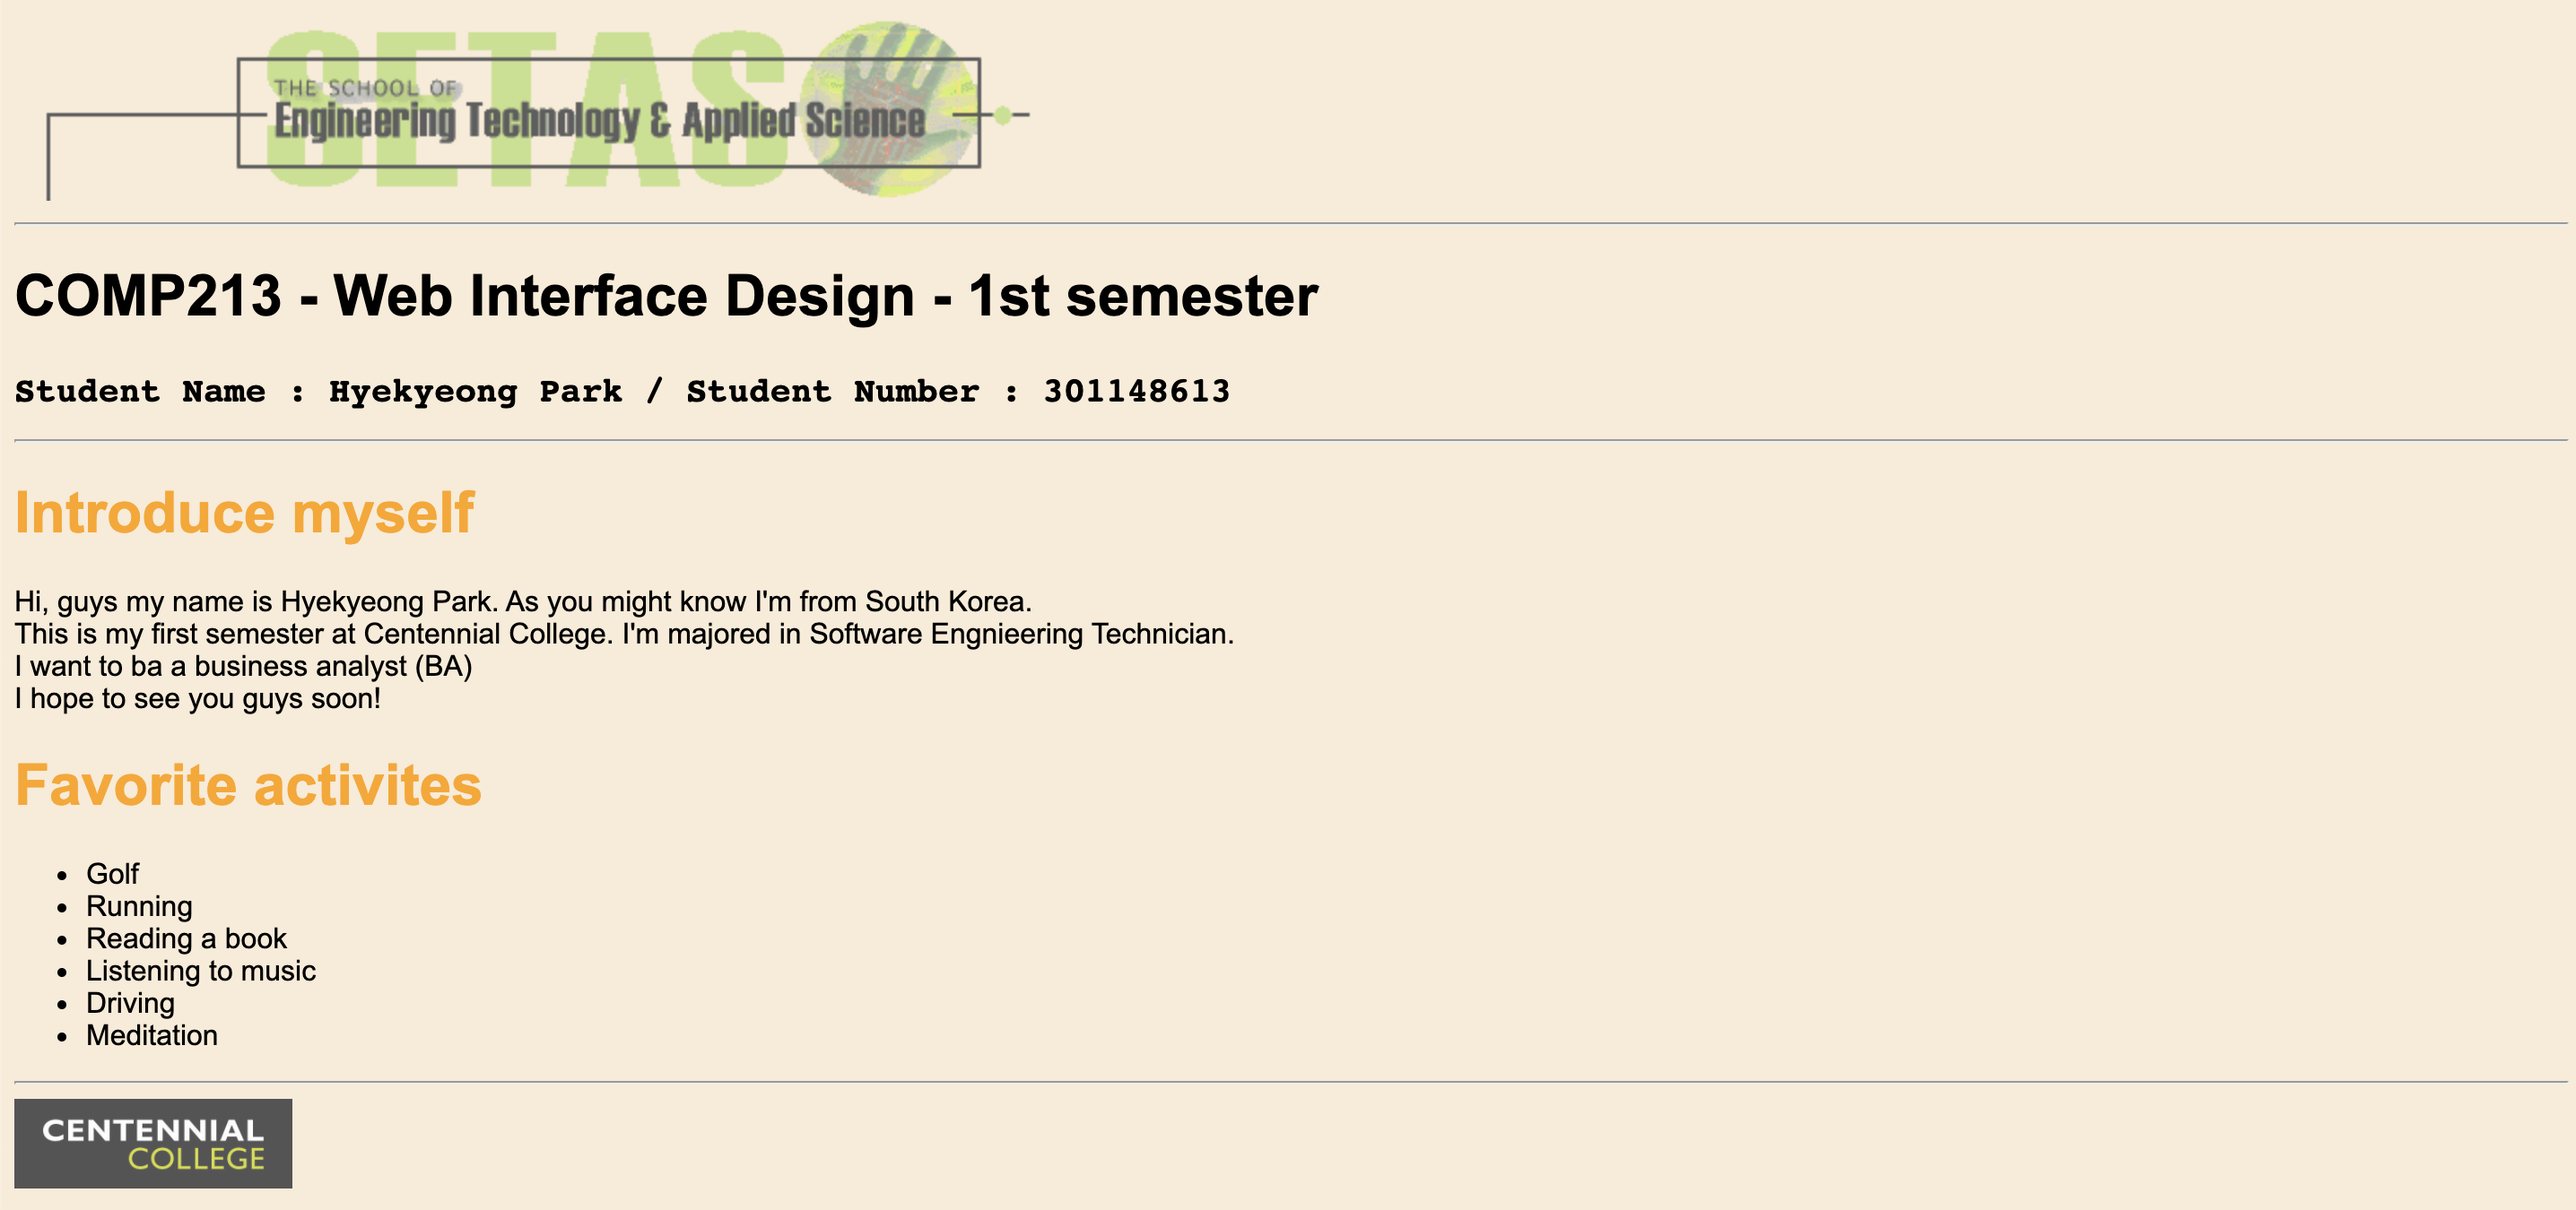
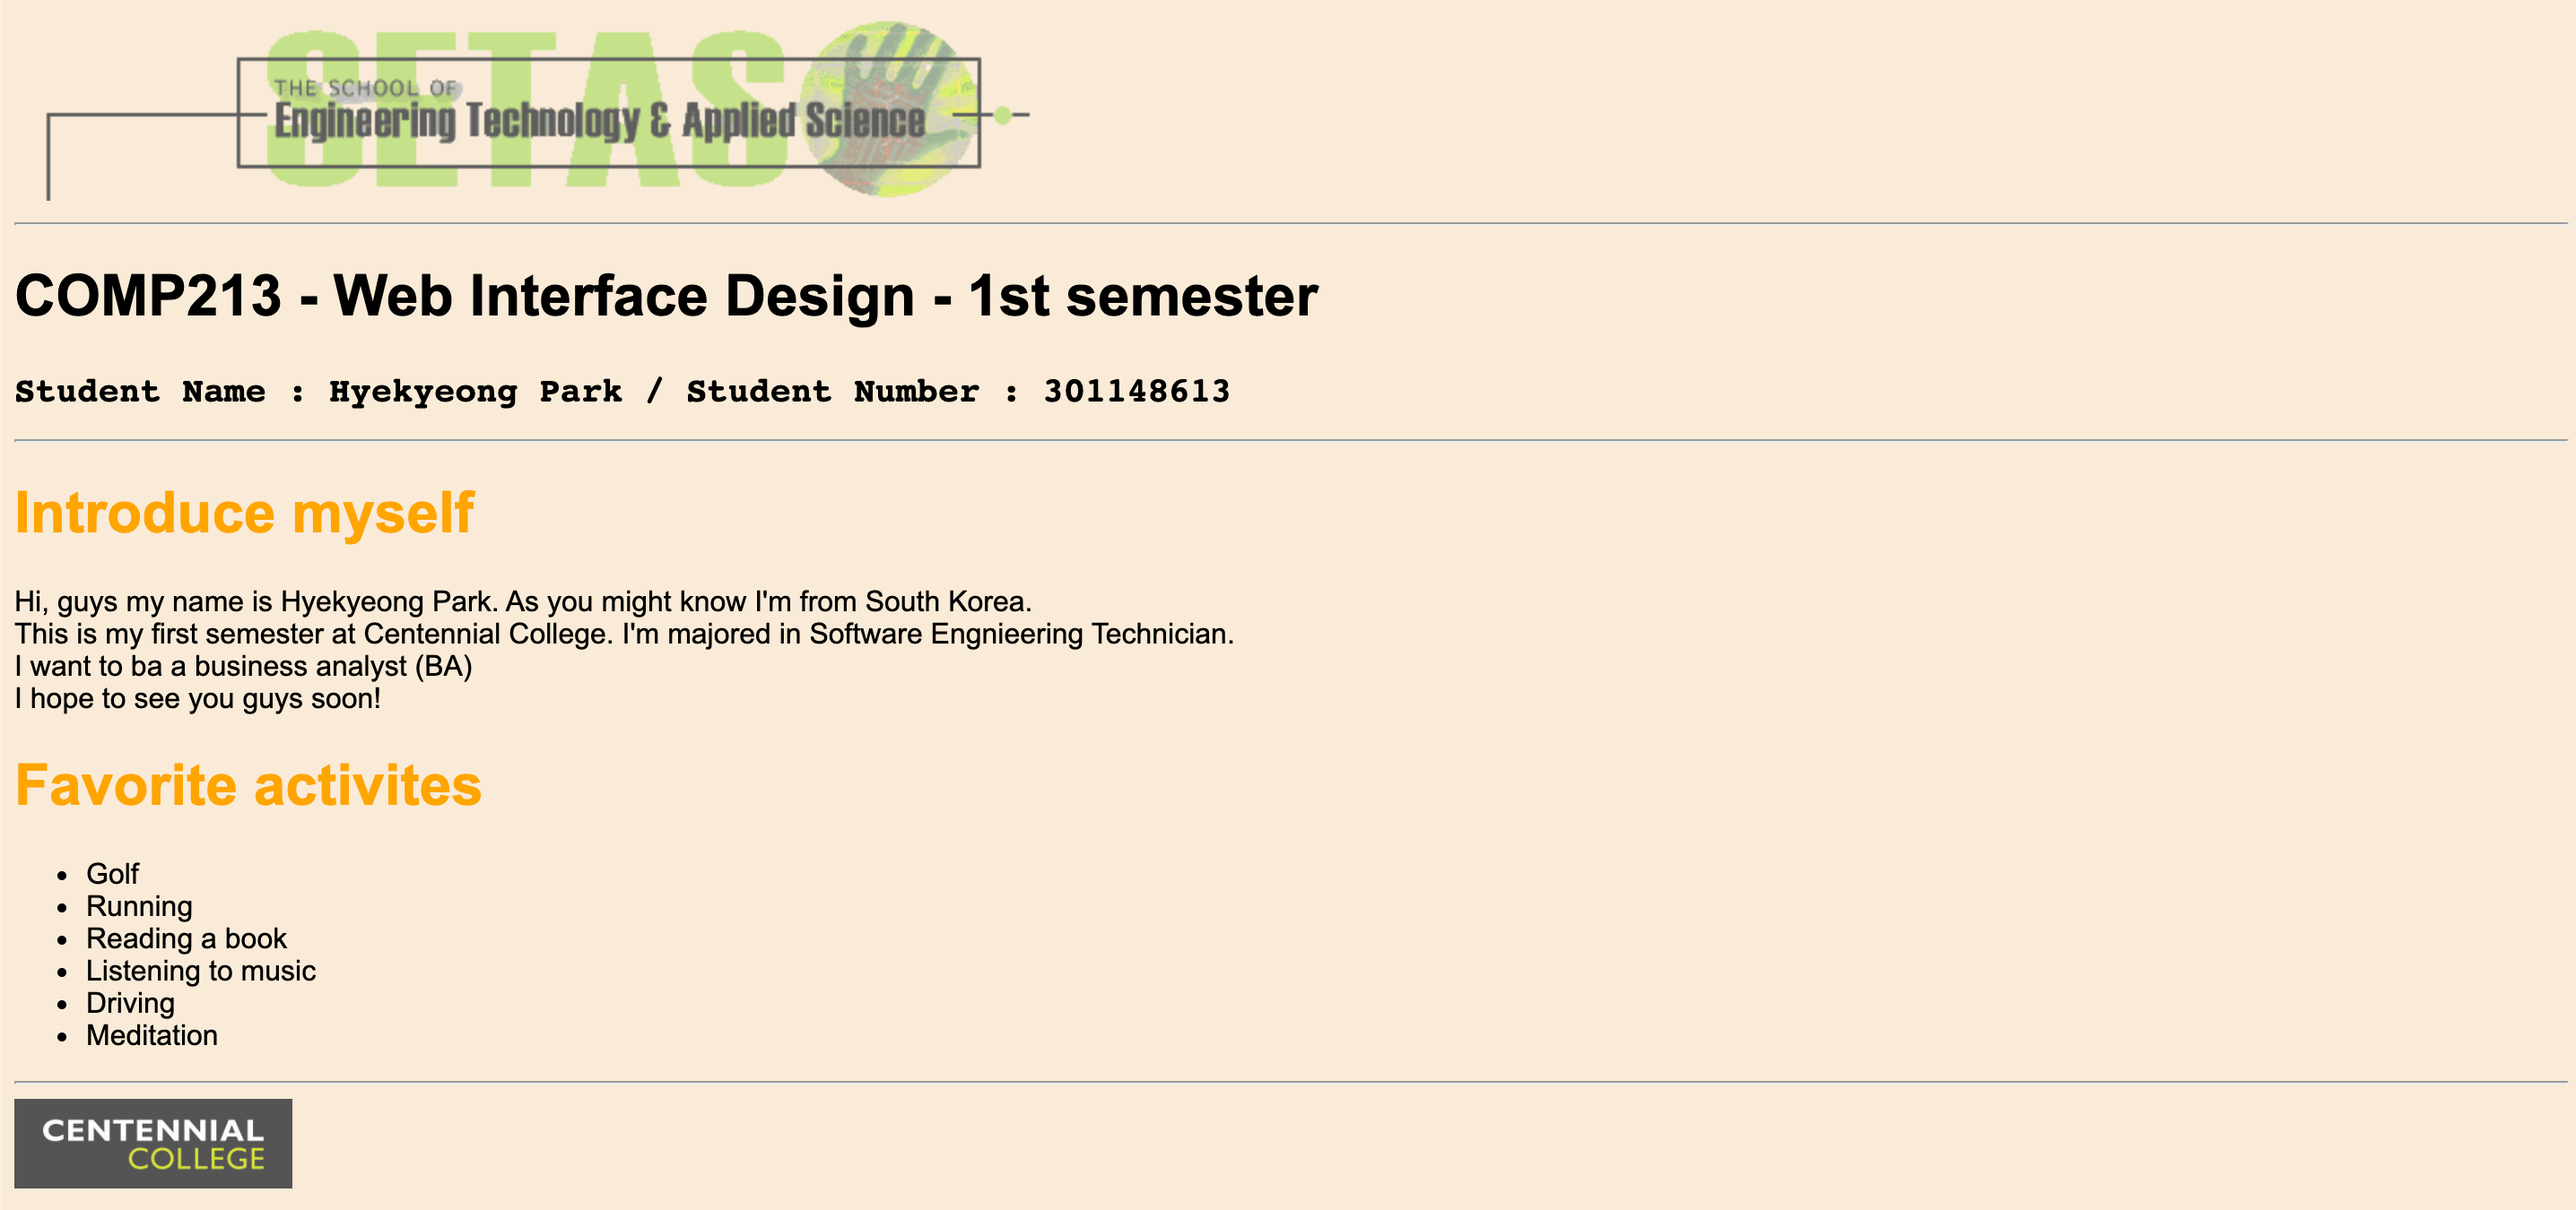
CSS : GLOBAL SETUP

Changed region(s): [[0.0, 0.6222, 0.1859, 0.6844], [0.0, 0.4044, 0.1859, 0.4667]]

diff --git a/style.css b/style.css
@@ -1,0 +1,39 @@
+/* Global */
+:root {
+    /* Color */
+    --color-white: #ffffff;
+    --color-light-white: #eeeeee;
+    --color-dark-white: #bdbdbd;
+    --color-pink: #fe918d;
+    --color-dark-pink: #ff6863;
+    --color-dark-grey: #4d4d4d;
+    --color-grey: #616161;
+    --color-light-grey: #7c7979;
+    --color-blue: #73aace;
+    --color-yellow: #fff7d1;
+    --color-orange: #feb546;
+    --color-black: #000000;
+
+
+    /* Font size */
+
+    --font-large: 48px;
+  --font-medium: 28px;
+  --font-regular: 18px;
+  --font-small: 16px;
+  --font-micro: 14px;
+
+    /* Font weight */
+
+    --weight-bold: 700;
+    --weight-semi-bold: 600;
+    --weight-regular: 400;
+  
+
+    /* Size */
+}
+
+/* Universal tags */
+* {
+    box-sizing: border-box;
+}
